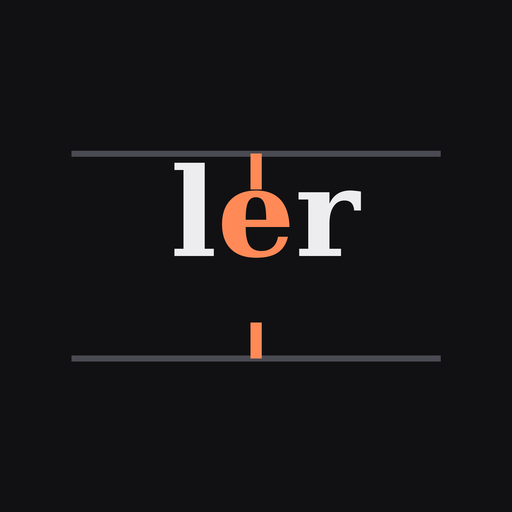
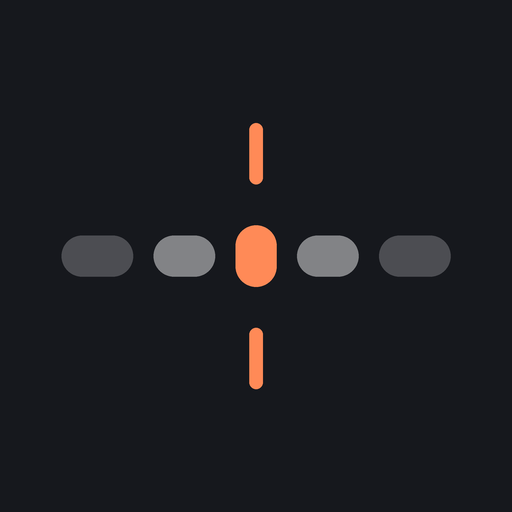
Troca o ícone do app pelo modelo Fluxo
Claude-Session: https://claude.ai/code/session_01NruzqehoS1KPMJuruXFTSs

Changed region(s): [[0.125, 0.2188, 0.875, 0.5625], [0.125, 0.625, 0.875, 0.7812]]

diff --git a/sw.js b/sw.js
@@ -1,7 +1,7 @@
 // Guarda o app para funcionar sem internet.
-const VERSAO = 'leitor-rsvp-1.1.0';
+const VERSAO = 'leitor-rsvp-1.2.0';
 const ARQUIVOS = ['./', 'index.html', 'estilo.css', 'motor.js', 'app.js', 'pdf.js', 'pdf.worker.js',
-  'manifest.webmanifest', 'icone-180.png', 'icone-192.png', 'icone-512.png'];
+  'manifest.webmanifest', 'icone-180.png', 'icone-192.png', 'icone-512.png', 'icone-maskable.png'];
 
 self.addEventListener('install', (e) => {
   e.waitUntil(caches.open(VERSAO).then((c) => c.addAll(ARQUIVOS)).then(() => self.skipWaiting()));
